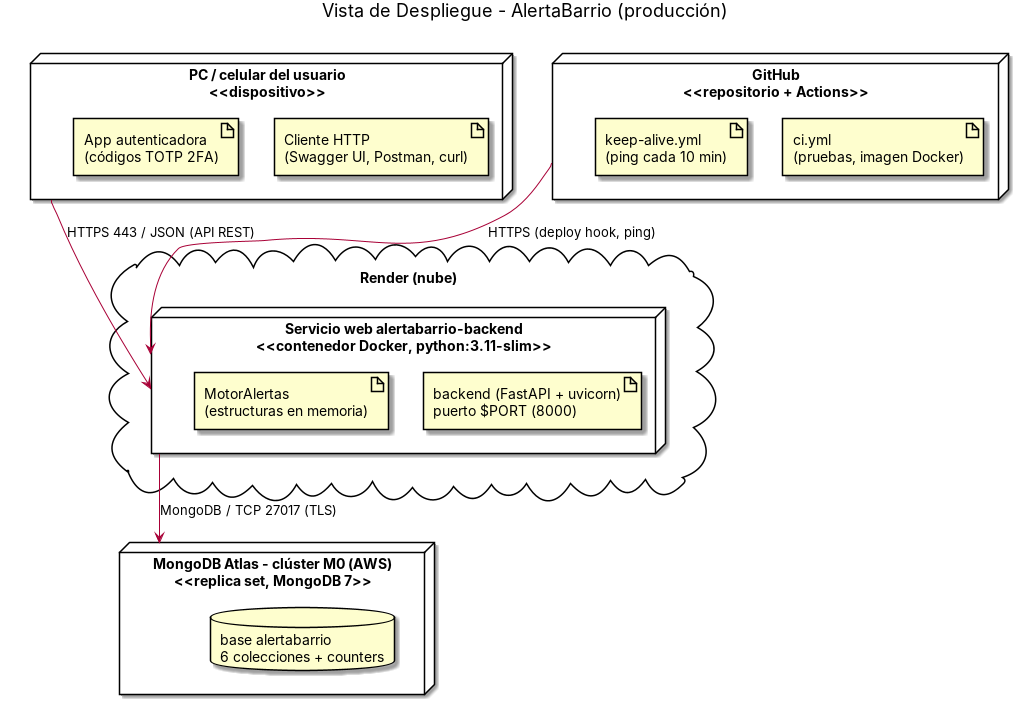
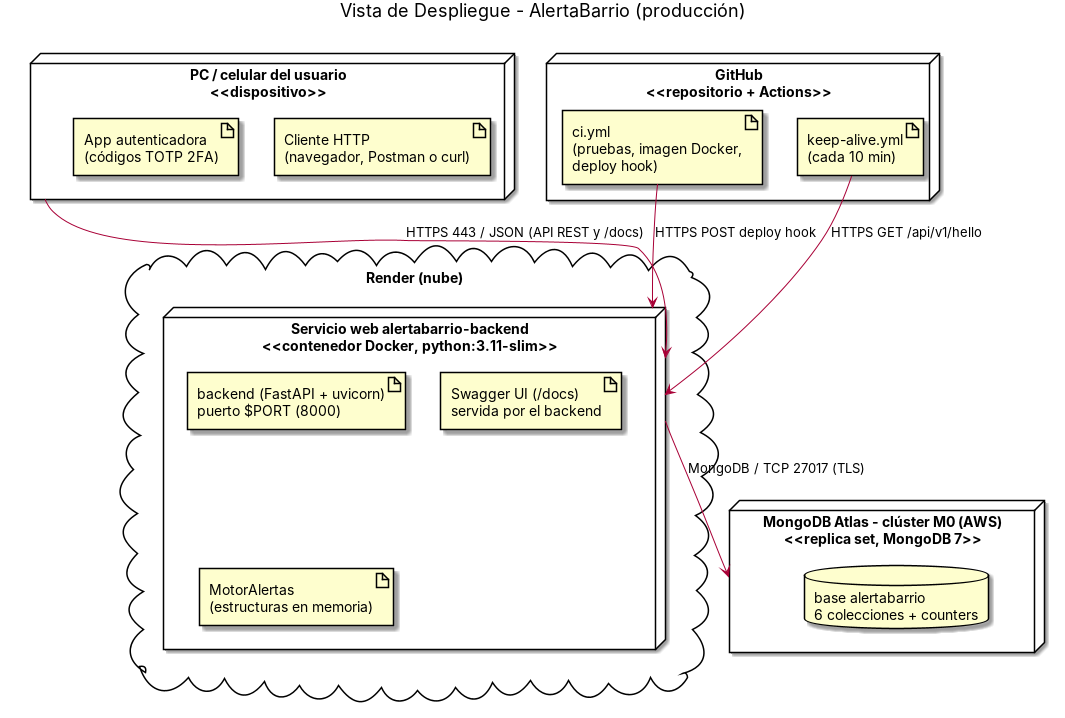
docs: vista de despliegue con Swagger servido por el backend y keep-alive

Changed region(s): [[0.0, 0.0624, 0.9951, 0.9986], [0.311, 0.0, 0.7153, 0.0312], [0.6531, 0.3745, 0.6842, 0.4057]]

diff --git a/docs/wiki/06-Arquitectura-4+1-Vistas.md b/docs/wiki/06-Arquitectura-4+1-Vistas.md
@@ -128,10 +128,10 @@ Los clientes solo hablan con el backend por HTTP/JSON. Los controladores delegan
 
 | Nodo | Ambiente | Artefactos | Conexión |
 |------|----------|------------|----------|
-| PC / celular del usuario | Navegador (Swagger UI), Postman o `curl` | Cliente HTTP; app autenticadora (códigos TOTP) | HTTPS 443 / JSON → Render |
-| Render — servicio web `alertabarrio-backend` | Contenedor Docker, `python:3.11-slim` | backend (FastAPI + uvicorn, puerto `$PORT`); MotorAlertas en memoria | MongoDB / TCP 27017 (TLS) → Atlas |
+| PC / celular del usuario | Navegador, Postman o `curl` | Cliente HTTP; app autenticadora (códigos TOTP) | HTTPS 443 / JSON → Render (API REST y `/docs`) |
+| Render — servicio web `alertabarrio-backend` | Contenedor Docker, `python:3.11-slim` | backend (FastAPI + uvicorn, puerto `$PORT`); **Swagger UI (`/docs`), servida por el propio backend**; MotorAlertas en memoria | MongoDB / TCP 27017 (TLS) → Atlas |
 | MongoDB Atlas — clúster M0 (AWS) | Replica set, MongoDB 7 | base `alertabarrio`: 6 colecciones + `counters` | — |
-| GitHub | Repositorio + Actions | `ci.yml` (pruebas e imagen Docker), `keep-alive.yml` (ping cada 10 min) | HTTPS → Render (deploy hook y ping) |
+| GitHub | Repositorio + Actions | `ci.yml` (pruebas, imagen Docker y deploy hook), `keep-alive.yml` (cada 10 min) | HTTPS POST al deploy hook de Render; `GET /api/v1/hello` del backend |
 
 ---
 
